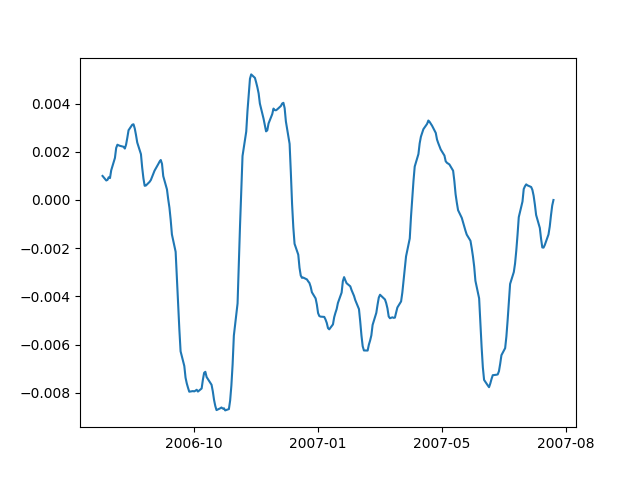
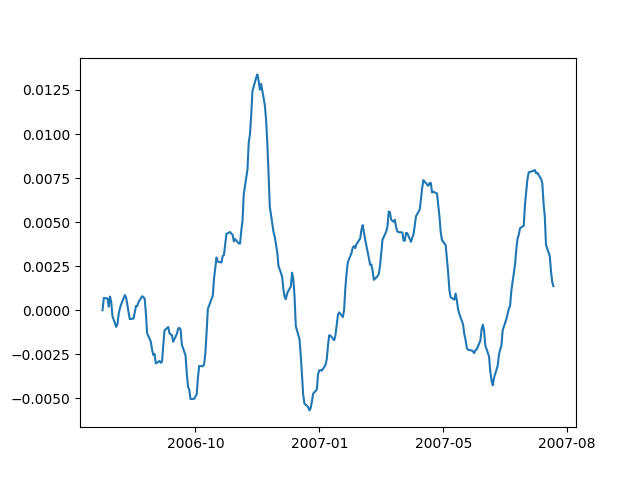
add flatten transform of wavelets

diff --git a/wavelet_research/waveletMaker.py b/wavelet_research/waveletMaker.py
@@ -1,5 +1,4 @@
 import math
-import os
 
 from core.parts.processing.indexes import *
 from core.parts.wavelets.transform import WaveletAnalysis
@@ -26,7 +25,7 @@ def countWaveletTransform(date, x):
         for wavelet in all_wavelets:
             wa = WaveletAnalysis(data=x, wavelet=wavelet())
             power = wa.wavelet_power
-            scales = wa.scales
+            scales = wa.compute_optimal_scales()
 
             wavelets.append(wavelet.__name__)
             data.append([date, scales, power])
@@ -37,6 +36,23 @@ def countWaveletTransform(date, x):
     except Exception as e:
         import traceback
         traceback.print_exc()
+
+
+def flatWaveletTransform(wavelets: dict):
+    flattenWavelets = []
+
+    for wavelet in wavelets:
+        date, _, power = wavelets[wavelet]
+        flattenWavelets.append([date, flatMatrix(power)])
+    return dict(zip(wavelets.keys(), flattenWavelets))
+
+
+def flatMatrix(matrix):
+    vector = np.zeros(len(matrix[0]))
+    for row in matrix:
+        for key, value in enumerate(row):
+            vector[key] += value
+    return vector
 
 
 # hurst_res = hurst(x)

diff --git a/core/parts/analysis/analyser.py b/core/parts/analysis/analyser.py
@@ -1,7 +1,7 @@
 from core.parts.preprocessing.preprocessing import prepareData
 from core.parts.processing.indexes import prepareHurstIndex
 from core.tools import collectPlots
-from wavelet_research.waveletMaker import countWaveletTransform
+from wavelet_research.waveletMaker import countWaveletTransform, flatWaveletTransform
 
 
 def analyse(currency, frequency, startDate, endDate):
@@ -9,8 +9,12 @@ def analyse(currency, frequency, startDate, endDate):
     hurstIndex = prepareHurstIndex(data["date"], data["open"])  # hurst index of close
 
     transforms = countWaveletTransform(data["date"], data["open"])
+    flattenTransforms = flatWaveletTransform(transforms)
     waveletDetails = collectPlots(transforms)
 
-    result = {"timeSeries": data, "hurstIndex": hurstIndex, "waveletDetails": waveletDetails}
+    result = {"timeSeries": data,
+              "hurstIndex": hurstIndex,
+              "waveletDetails": waveletDetails,
+              "flattenTransforms": flattenTransforms}
 
     return result

diff --git a/core/tools.py b/core/tools.py
@@ -26,18 +26,18 @@ def showResult(date, scales, power, time_scale, window, file_name):
 def collectPlots(wavelets: dict):
     images = []
     for wavelet in wavelets:
-        images.append(generatePlotBase64(*(wavelets[wavelet])))
+        images.append(generatePlotBase64(*(wavelets[wavelet]), wavelet))
 
     return dict(zip(wavelets.keys(), images))
 
 
-def generatePlotBase64(date, scales, power):
+def generatePlotBase64(date, scales, power, wavelet):
     fig, ax = plt.subplots()
     ax.xaxis.set_major_locator(YearLocator(5))
     # ax.set_yticks(y_ticks)
     ax.xaxis.set_major_locator(mticker.MaxNLocator(5))
     ax.xaxis.set_major_formatter(mdates.DateFormatter('%Y-%m'))
-
+    ax.set(title=wavelet)
     ax.contourf(date, scales, power, 100)
 
     figfile = BytesIO()

diff --git a/core/parts/processing/research.py b/core/parts/processing/research.py
@@ -15,7 +15,17 @@ class Image:
 
 def simple_wavelet_research():
     data = prepareData('eurusd=x', "TIME_SERIES_DAILY", datetime(2006, 8, 2), datetime(2007, 8, 2))
+
+    # fig, ax = plt.subplots()
+    # ax.plot(data["date"], data["open"])
+    # ax.set(title="raw data")
+    # ax.grid()
+    # figfile = BytesIO()
+    # fig.savefig(figfile, format='png')
+    # figfile.seek(0)
+
     transforms = countWaveletTransform(data["date"], data["open"])
+    temp = flatWaveletTransform(transforms)
     plotData = collectPlots(transforms)
     return plotData
 
